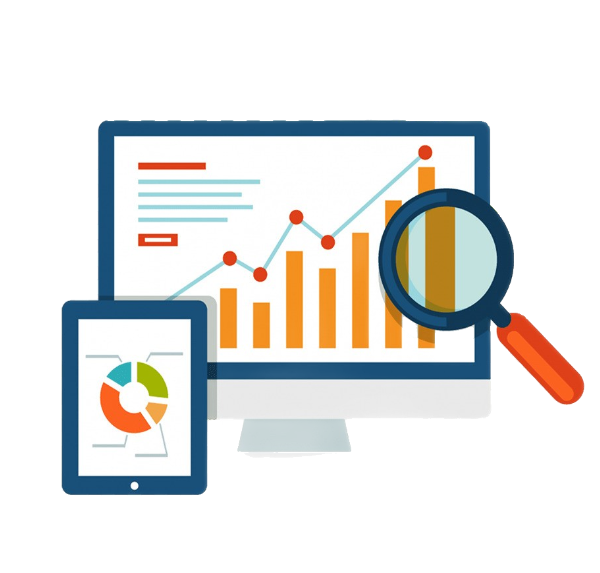
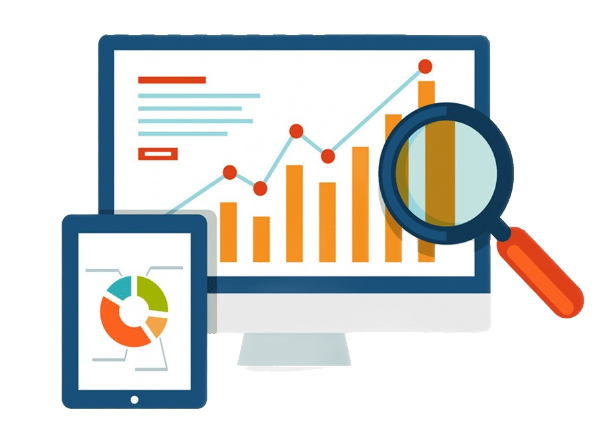
web

diff --git a/background.css b/background.css
@@ -109,6 +109,8 @@
 
     margin-right: auto;
     margin-left: auto;
+
+    margin-top: 0px;
 }
 
 .row1 {
@@ -133,7 +135,7 @@
     }
 
     .images {
-        margin-top: 20px;
+        margin-top: 0px;
         grid-row-start: 2;
         grid-row-end: 3;
     }

diff --git a/mission.css b/mission.css
@@ -117,6 +117,7 @@
     width: 100%;
 
     padding: 5px;
+    padding-bottom: 20px;
 }
 
 @media screen and (max-width: 700px) {

diff --git a/objectives.css b/objectives.css
@@ -120,6 +120,7 @@
     width: 100%;
 
     padding: 5px;
+    padding-bottom: 20px;
 }
 
 
